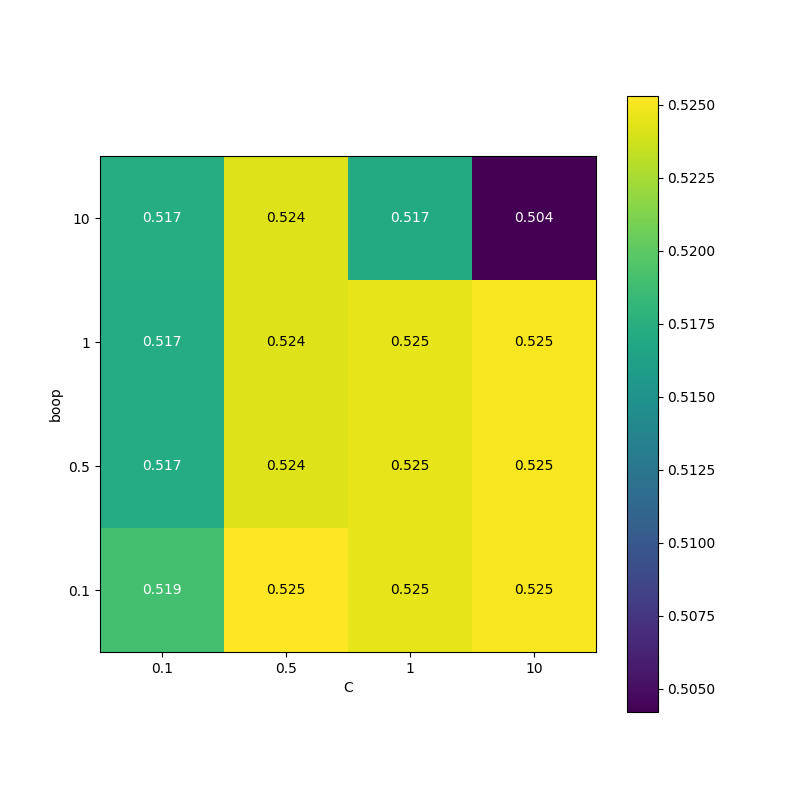
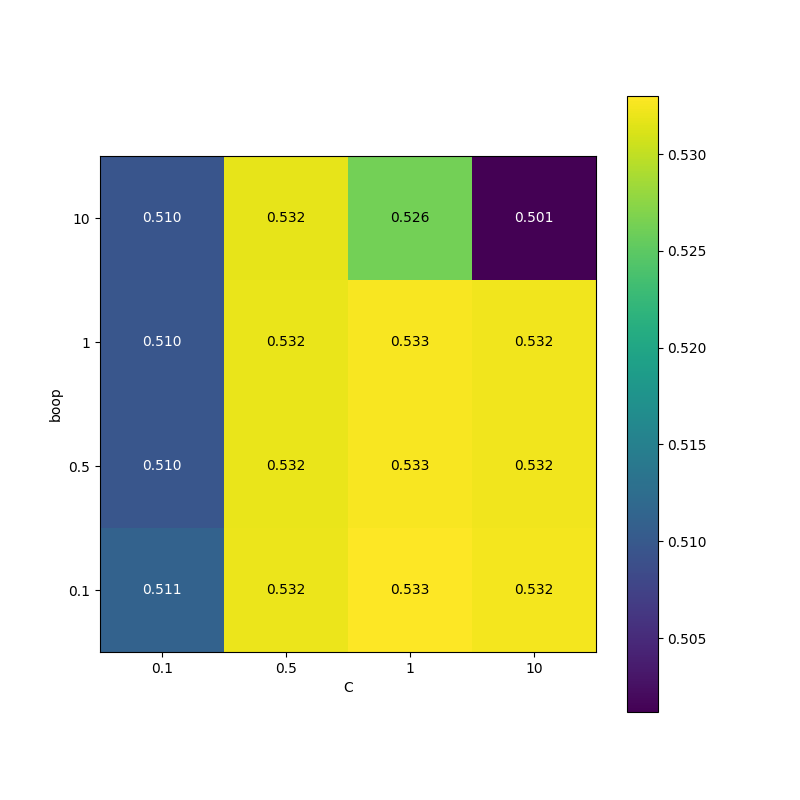
laptop work

diff --git a/KNeighbours.py b/KNeighbours.py
@@ -141,7 +141,7 @@ def plotAccuracy(favouritesAcc,listed_acc,numberAcc,favouritesListedAcc,favourit
 
 def plotHeatMap(graphName, clf, clist, interlist):
     plt.figure(figsize=(8, 8))
-    scores=clf.cv_results_['mean_test_score'].reshape(-1, 5).T
+    scores=clf.cv_results_['mean_test_score'].reshape(-1, 4).T
     heatmap=mglearn.tools.heatmap(scores, xlabel="C", ylabel="boop", cmap="viridis", fmt="%.3f", xticklabels=clist, yticklabels=interlist)
     plt.colorbar(heatmap)
     graph = 'plots/' + graphName+'HyperParam.png'
@@ -180,14 +180,12 @@ def simpleFeature(X, y, name):
     else:
         (X, _) = normaliseData(X.reshape(-1,1))
    
-    outerCV=KFold(n_splits=4, shuffle=True, random_state=21)
+    outerCV=KFold(n_splits=10, shuffle=True, random_state=21)
     hyperparameters={
-        "n_neighbors": [ 1,5,10]
+        "n_neighbors": [ 1,5,10, 30]
         ,
         
-        "leaf_size": [10, 20, 30, 50],
-       
-        "p": [1,2]
+        "leaf_size": [10, 20, 30, 50]
       
       
 
@@ -196,7 +194,7 @@ def simpleFeature(X, y, name):
     neighbour=hyperparameters["n_neighbors"]
     leaflist=hyperparameters["leaf_size"]
     model = KNeighborsClassifier()
-    cv = RepeatedKFold(n_splits=2, n_repeats=2)
+    cv = RepeatedKFold(n_splits=10, n_repeats=5)
     clf=GridSearchCV(estimator=model, param_grid=hyperparameters, cv=cv)
     clf.fit(X, y)
   
@@ -208,7 +206,7 @@ def simpleFeature(X, y, name):
     precision=cross_val_score(clf, X.reshape(-1,1), y, cv=cv,scoring='precision').mean()
     predictions = cross_val_predict(clf, X, y, cv=outerCV)
    
-    #plotHeatMap(name, clf, neighbour, leaflist)
+    plotHeatMap(name, clf, neighbour, leaflist)
     plotPrecisionRecall(predictions, y, name)
   
     f=open("scoresKNeighbour.txt", "a+")
@@ -279,18 +277,16 @@ def combinedFeatures(x1, x2, graphName,df):
         ),
     ])
     hyperparameters={
-        "classifier__n_neighbors": [ 1,5,10, 20, 30]
+        "classifier__n_neighbors": [ 1,5,10, 30]
         ,
         
-        "classifier__leaf_size": [10, 20, 30, 50, 70],
-       
-       "classifier__p": [1,2]
+        "classifier__leaf_size": [10, 20, 30, 50]
 
 
         }
     neighbours=hyperparameters["classifier__n_neighbors"]
     leafList=hyperparameters["classifier__leaf_size"]
-    cv = RepeatedKFold(n_splits=2, n_repeats=2)
+    cv = RepeatedKFold(n_splits=10, n_repeats=5)
     clf=GridSearchCV(estimator=pipeline, param_grid=hyperparameters, cv=cv)
     clf.fit(X, y)
     
@@ -305,7 +301,7 @@ def combinedFeatures(x1, x2, graphName,df):
     f.write("scores for "+graphName)
     f.write("accuracy: "+str(accuracy)+" recall: "+str(recall)+" precision: "+str(precision)+"\n")
     f.close()
-    #plotHeatMap(graphName, clf, neighbours, leafList)
+    plotHeatMap(graphName, clf, neighbours, leafList)
     plotPrecisionRecall(predictions, y, graphName)
     
     return accuracy
@@ -373,7 +369,7 @@ def combinedThreeFeatures(x1, x2, x3,graphName, df):
         }
     clist=hyperparameters["classifier__C"]
     interlist=hyperparameters["classifier__intercept_scaling"]
-    cv = RepeatedKFold(n_splits=2, n_repeats=2)
+    cv = RepeatedKFold(n_splits=10, n_repeats=5)
     clf=GridSearchCV(estimator=pipeline, param_grid=hyperparameters, cv=cv)
     clf.fit(X, y)
     

diff --git a/LinearSVC.py b/LinearSVC.py
@@ -296,7 +296,7 @@ def simpleFeature(X, y, name):
     else:
         (X, _) = normaliseData(X.reshape(-1,1))
    
-    outerCV=KFold(n_splits=4, shuffle=True, random_state=21)
+    outerCV=KFold(n_splits=10, shuffle=True, random_state=21)
     hyperparameters={
             "C": [ .1, .5, 1, 10],
             
@@ -311,7 +311,7 @@ def simpleFeature(X, y, name):
     clist=hyperparameters["C"]
     interlist=hyperparameters["intercept_scaling"]
     model = LinearSVC(random_state=42 )
-    cv = RepeatedKFold(n_splits=2, n_repeats=4)
+    cv = RepeatedKFold(n_splits=5, n_repeats=10)
     clf=GridSearchCV(estimator=model, param_grid=hyperparameters, cv=cv)
     clf.fit(X, y)
   
@@ -341,7 +341,7 @@ def textClassification(X, y, name):
     print("Model "+name)
     
   
-    outerCV = KFold(n_splits=4, shuffle=True, random_state=21)
+    outerCV = KFold(n_splits=10, shuffle=True, random_state=21)
     vectorizer = CountVectorizer(stop_words='english', max_df=0.2)
     
     X = vectorizer.fit_transform(X)
@@ -359,7 +359,7 @@ def textClassification(X, y, name):
             }
     clist=hyperparameters["C"]
     interlist=hyperparameters["intercept_scaling"]
-    cv = RepeatedKFold(n_splits=2, n_repeats=4)
+    cv = RepeatedKFold(n_splits=5, n_repeats=10)
     clf=GridSearchCV(estimator=model, param_grid=hyperparameters, cv=cv)
     clf.fit(X, y)
     
@@ -387,7 +387,7 @@ def combinedFeatures(x1, x2,df):
     
 
   
-    outerCV = KFold(n_splits=4, shuffle=True, random_state=21)
+    outerCV = KFold(n_splits=10, shuffle=True, random_state=21)
     name=x1+" and "+x2
     graphName=(str(x1+" and "+x2))    
     features= [c for c in df.columns.values if c   in [x1,x2]]
@@ -448,7 +448,7 @@ def combinedFeatures(x1, x2,df):
         }
     clist=hyperparameters["classifier__C"]
     interlist=hyperparameters["classifier__intercept_scaling"]
-    cv = RepeatedKFold(n_splits=2, n_repeats=4)
+    cv = RepeatedKFold(n_splits=5, n_repeats=10)
     clf=GridSearchCV(estimator=pipeline, param_grid=hyperparameters, cv=cv)
     clf.fit(X, y)
     
@@ -477,7 +477,7 @@ def combinedFeatures(x1, x2,df):
 def combinedThreeTextFeatures(x1, x2, x3,df):
     print(x1+" and "+x2+" and "+x3)
     graphName=(str(x1+" and "+x2+" and "+x3))
-    outerCV = KFold(n_splits=4, shuffle=True, random_state=21)
+    outerCV = KFold(n_splits=10, shuffle=True, random_state=21)
     features= [c for c in df.columns.values if c   in [x1,x2]]
     
     target='gender'
@@ -528,7 +528,7 @@ def combinedThreeTextFeatures(x1, x2, x3,df):
         }
     clist=hyperparameters["classifier__C"]
     interlist=hyperparameters["classifier__intercept_scaling"]
-    cv = RepeatedKFold(n_splits=2, n_repeats=4)
+    cv = RepeatedKFold(n_splits=5, n_repeats=10)
     clf=GridSearchCV(estimator=pipeline, param_grid=hyperparameters, cv=cv)
     clf.fit(X, y)
     

diff --git a/Bayes.py b/Bayes.py
@@ -95,7 +95,7 @@ def textClassification(X, y, name):
     # create a dataframe using texts and lables
     print("Model "+name)
     
-    outerCV = KFold(n_splits=2, shuffle=True, random_state=21)
+    outerCV = KFold(n_splits=10, shuffle=True, random_state=21)
     
     hyperparameters={
     "clf__alpha": [ .1,  1, 10],
@@ -109,7 +109,7 @@ def textClassification(X, y, name):
                     ('clf', MultinomialNB()),
    ])
     
-    cv = RepeatedKFold(n_splits=2, n_repeats=2)
+    cv = RepeatedKFold(n_splits=5, n_repeats=10)
     clf=GridSearchCV(estimator=pipeline, param_grid=hyperparameters, cv=cv)
     clf.fit(X, y)
     accuracy = cross_val_score(clf, X=X, y=y, cv=cv ).mean()
@@ -157,7 +157,7 @@ def main():
                     male+=1
                 else:
                     fem+=1
-            acc = textClassification(tweet_arr, gender_arr, "Tweet Bayes")
+            #acc = textClassification(tweet_arr, gender_arr, "Tweet Bayes")
             
           
  
